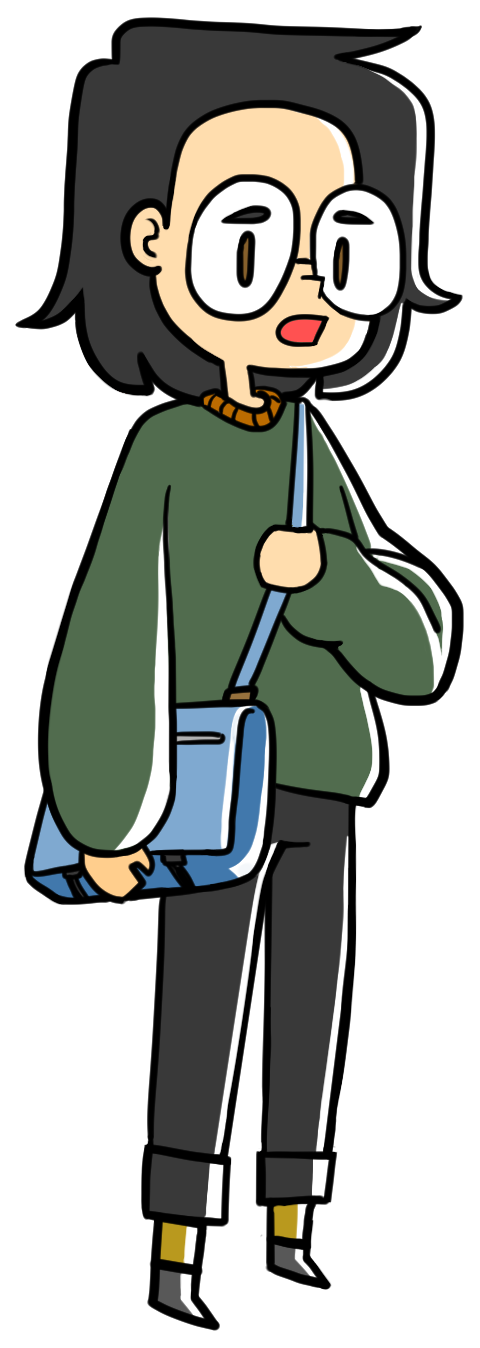
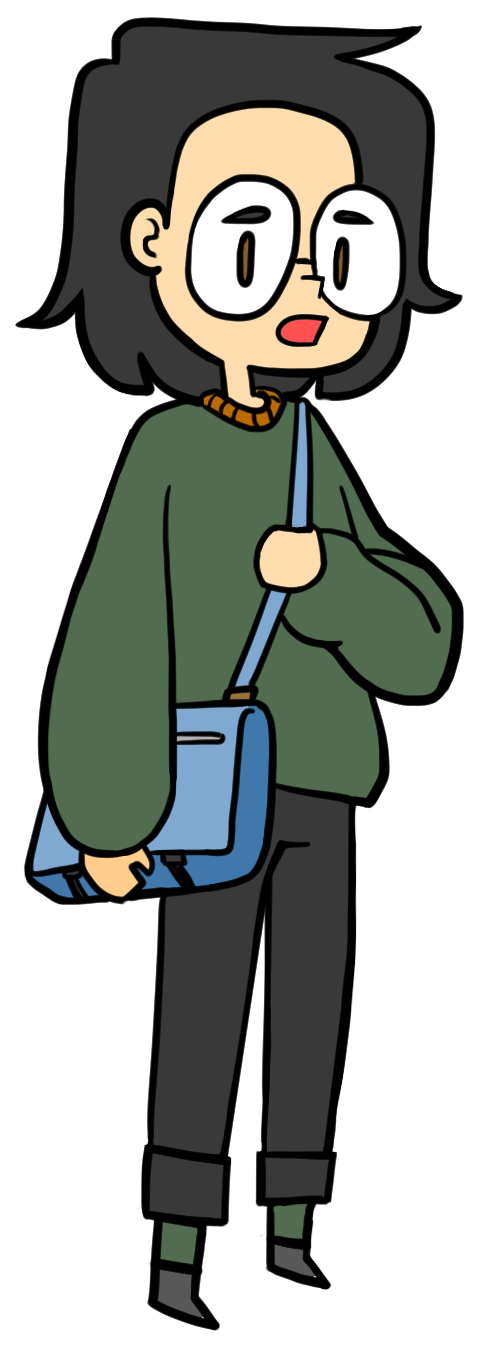
Agregada objetos y sprites v2
Añadi objetos, Sprites neuva version y cambié la caja de texto en CSS

diff --git a/ronistylesheet.css b/ronistylesheet.css
@@ -51,8 +51,9 @@ button:hover {
 
 /* Main Menu Styling */
 [data-screen="main"] {
-
+    background-image: url(http://127.0.0.1:8887/assetsroni/images/Portada%20pitchv3.png);
 }
+
 
 /* Main Menu Buttons Styling */
 [data-screen="main"] button {
@@ -115,7 +116,13 @@ button:hover {
 
 /* Character Name Style */
 [data-ui="who"] {
-
+    padding: 0rem;
+    margin: 7px 0px 23px 40rem;
+    font-size: 2.5rem;
+    background: #00000000;
+    width: 7rem;
+    border-radius: 50px;
+    border: 15px black;
 }
 
 /* Style for Centered Text */
@@ -223,10 +230,6 @@ input[type=range]::-ms-fill-upper {
     right: 47%;
 }
 
-[data-screen="main"] {
-    background-image: url(http://127.0.0.1:8887/assetsroni/images/Portada%20pitchv3.png);
-}
-
 [data-action="open-screen"], [data-component="quick-menu"] {
     display: none;
 }
@@ -248,4 +251,16 @@ game-screen [data-sprite].left {
 }
 choice-container button {
      color: 
+}
+[data-content=dialog], [data-ui=say] {
+    padding: 2rem 5rem 2rem 5rem;
+}
+text-box p {
+    display: block;
+    width: 75rem;
+    height: 8rem;
+    padding: 10px;
+    margin: -30px -2rem 0rem 8.5rem;
+    text-align: justify;
+    background: #ff000000;
 }
